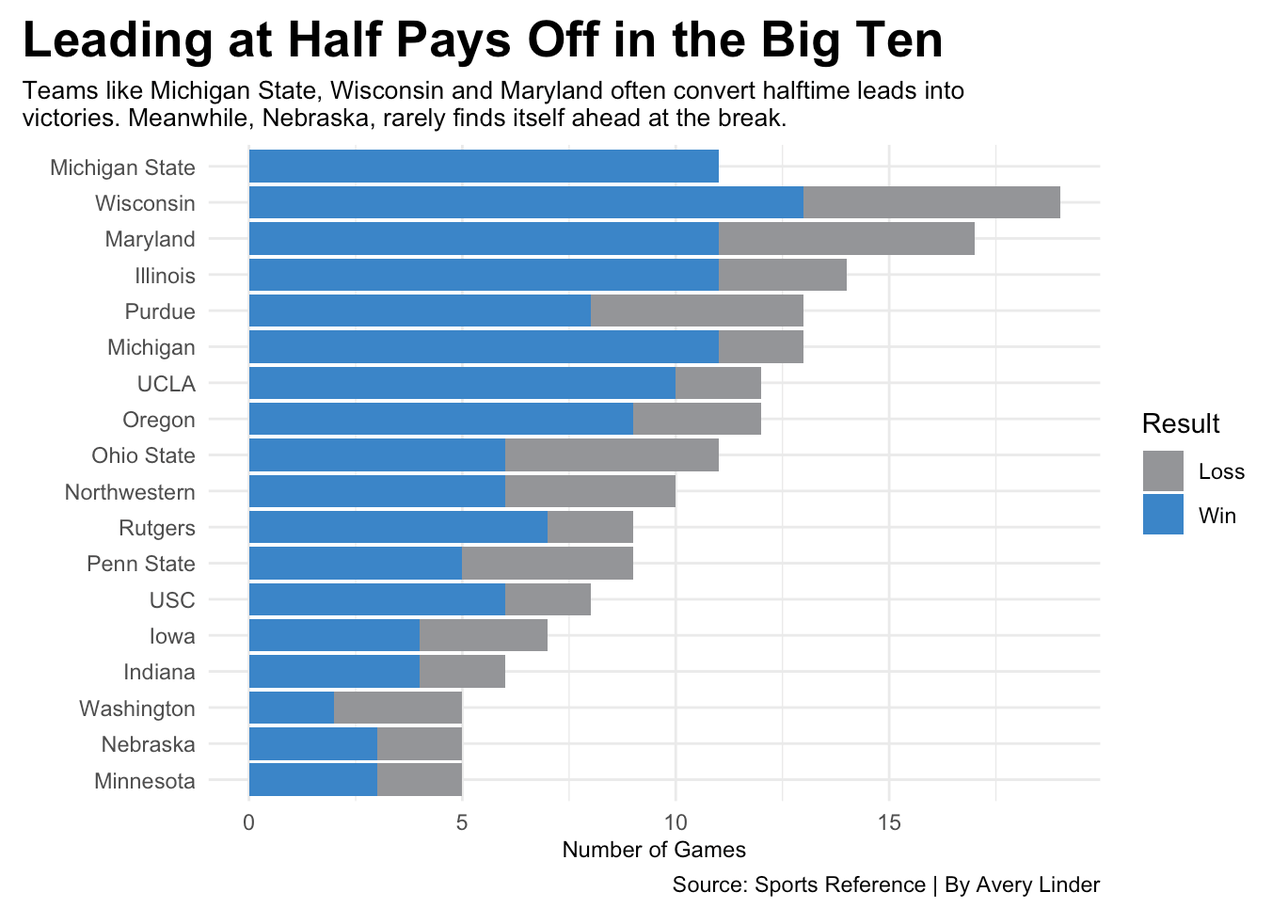
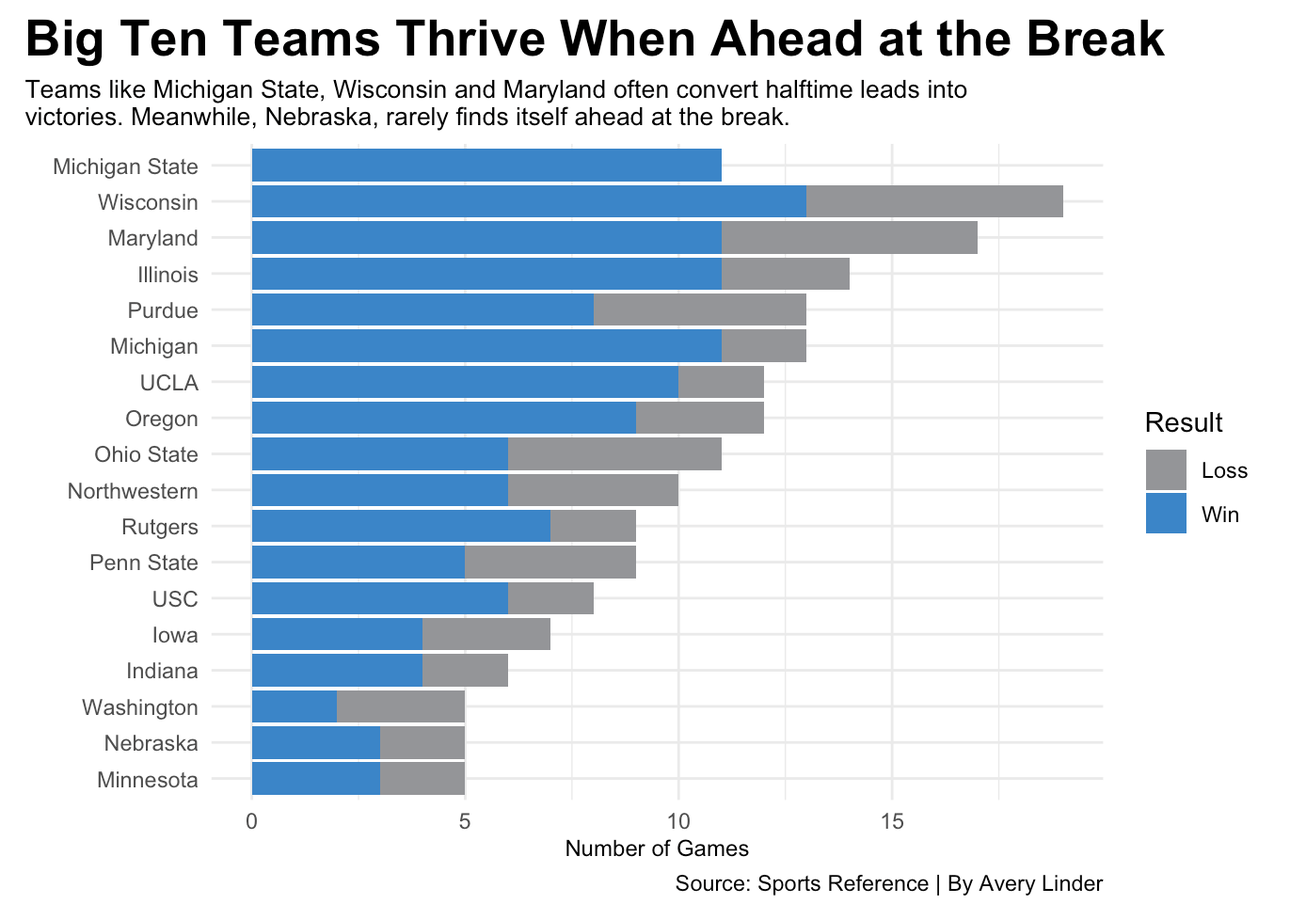
Final

diff --git a/posts/does-leading-at-halftime-predict-winning/index.html b/posts/does-leading-at-halftime-predict-winning/index.html
@@ -195,37 +195,45 @@ pre > code.sourceCode > span > a:first-child::before { text-decoration: underlin
 
 
 
-<p>FILL IN WORDS HERE YAY!!</p>
+<p>People often claim that the first half of a basketball game is the most important. But is that actually true?</p>
+<p>In the Big Ten Men’s Basketball Conference, the early minutes can make or break a team’s night. The first half can set the tone for the final stretch, revealing which programs take early control and which teams spend their time digging themselves out of a hole.</p>
+<p>Understanding these patterns, helps highlights the critical role halftime performance plays in a team’s overall season outcome.</p>
+<p>Sports Reference data from the 2024–2025 season shows halftime and final scores for every game in the regular season, highlighting which teams turn early leads into victories and which struggle to keep up</p>
+<p>Patterns quickly appear, showing which programs hold their halftime advantage and which fall behind before the final buzzer.</p>
 <div class="cell">
 <details class="code-fold">
 <summary>Code</summary>
 <div class="code-copy-outer-scaffold"><div class="sourceCode cell-code" id="cb1"><pre class="sourceCode r code-with-copy"><code class="sourceCode r"><span id="cb1-1"><a href="#cb1-1" aria-hidden="true" tabindex="-1"></a><span class="fu">library</span>(tidyverse)</span>
-<span id="cb1-2"><a href="#cb1-2" aria-hidden="true" tabindex="-1"></a></span>
-<span id="cb1-3"><a href="#cb1-3" aria-hidden="true" tabindex="-1"></a>basketball <span class="ot">&lt;-</span> <span class="fu">read_csv</span>(<span class="st">"Project 1 Data - Sheet1.csv"</span>)</span>
+<span id="cb1-2"><a href="#cb1-2" aria-hidden="true" tabindex="-1"></a><span class="fu">library</span>(ggrepel)</span>
+<span id="cb1-3"><a href="#cb1-3" aria-hidden="true" tabindex="-1"></a><span class="fu">library</span>(ggbeeswarm)</span>
 <span id="cb1-4"><a href="#cb1-4" aria-hidden="true" tabindex="-1"></a></span>
-<span id="cb1-5"><a href="#cb1-5" aria-hidden="true" tabindex="-1"></a>big <span class="ot">&lt;-</span> basketball <span class="sc">|&gt;</span></span>
-<span id="cb1-6"><a href="#cb1-6" aria-hidden="true" tabindex="-1"></a>  <span class="fu">filter</span>(HalftimeStatus <span class="sc">==</span> <span class="st">"Winning"</span>) <span class="sc">|&gt;</span> </span>
-<span id="cb1-7"><a href="#cb1-7" aria-hidden="true" tabindex="-1"></a> <span class="fu">group_by</span>(Team, Result) <span class="sc">|&gt;</span></span>
-<span id="cb1-8"><a href="#cb1-8" aria-hidden="true" tabindex="-1"></a>  <span class="fu">summarise</span>(<span class="at">total_games =</span> <span class="fu">n</span>())</span>
-<span id="cb1-9"><a href="#cb1-9" aria-hidden="true" tabindex="-1"></a></span>
-<span id="cb1-10"><a href="#cb1-10" aria-hidden="true" tabindex="-1"></a><span class="fu">ggplot</span>() <span class="sc">+</span> </span>
-<span id="cb1-11"><a href="#cb1-11" aria-hidden="true" tabindex="-1"></a>  <span class="fu">geom_bar</span>(<span class="at">data=</span>big, <span class="fu">aes</span>(<span class="at">x=</span><span class="fu">reorder</span>(Team, total_games), <span class="at">weight =</span> total_games, <span class="at">fill=</span>Result)) <span class="sc">+</span> </span>
-<span id="cb1-12"><a href="#cb1-12" aria-hidden="true" tabindex="-1"></a>  <span class="fu">coord_flip</span>() <span class="sc">+</span></span>
-<span id="cb1-13"><a href="#cb1-13" aria-hidden="true" tabindex="-1"></a>  <span class="fu">labs</span>(</span>
-<span id="cb1-14"><a href="#cb1-14" aria-hidden="true" tabindex="-1"></a>    <span class="at">x=</span><span class="st">""</span>, </span>
-<span id="cb1-15"><a href="#cb1-15" aria-hidden="true" tabindex="-1"></a>    <span class="at">y=</span><span class="st">"Number of Games"</span>, </span>
-<span id="cb1-16"><a href="#cb1-16" aria-hidden="true" tabindex="-1"></a>    <span class="at">title=</span><span class="st">"Leading at Half Pays Off in the Big Ten"</span>, </span>
-<span id="cb1-17"><a href="#cb1-17" aria-hidden="true" tabindex="-1"></a>    <span class="at">subtitle=</span><span class="st">"Teams like Michigan State, Wisconsin and Maryland often convert halftime leads into </span><span class="sc">\n</span><span class="st">victories. Meanwhile, Nebraska, rarely finds itself ahead at the break."</span>, </span>
-<span id="cb1-18"><a href="#cb1-18" aria-hidden="true" tabindex="-1"></a>    <span class="at">caption=</span><span class="st">"Source: Sports Reference | By Avery Linder"</span></span>
-<span id="cb1-19"><a href="#cb1-19" aria-hidden="true" tabindex="-1"></a>    ) <span class="sc">+</span></span>
-<span id="cb1-20"><a href="#cb1-20" aria-hidden="true" tabindex="-1"></a>  <span class="fu">scale_fill_manual</span>(<span class="at">values=</span><span class="fu">c</span>(<span class="st">"#939598"</span>, <span class="st">"#0088CE"</span>)) <span class="sc">+</span> </span>
-<span id="cb1-21"><a href="#cb1-21" aria-hidden="true" tabindex="-1"></a>  <span class="fu">theme_minimal</span>() <span class="sc">+</span></span>
-<span id="cb1-22"><a href="#cb1-22" aria-hidden="true" tabindex="-1"></a>  <span class="fu">theme</span>(</span>
-<span id="cb1-23"><a href="#cb1-23" aria-hidden="true" tabindex="-1"></a>    <span class="at">plot.title.position =</span> <span class="st">"plot"</span>,</span>
-<span id="cb1-24"><a href="#cb1-24" aria-hidden="true" tabindex="-1"></a>    <span class="at">plot.title =</span> <span class="fu">element_text</span>(<span class="at">size =</span> <span class="dv">20</span>, <span class="at">face =</span> <span class="st">"bold"</span>),</span>
-<span id="cb1-25"><a href="#cb1-25" aria-hidden="true" tabindex="-1"></a>    <span class="at">plot.subtitle =</span> <span class="fu">element_text</span>(<span class="at">size=</span><span class="dv">10</span>),</span>
-<span id="cb1-26"><a href="#cb1-26" aria-hidden="true" tabindex="-1"></a>    <span class="at">axis.title =</span> <span class="fu">element_text</span>(<span class="at">size =</span> <span class="dv">9</span>), </span>
-<span id="cb1-27"><a href="#cb1-27" aria-hidden="true" tabindex="-1"></a>  )</span></code></pre></div><button title="Copy to Clipboard" class="code-copy-button"><i class="bi"></i></button></div>
+<span id="cb1-5"><a href="#cb1-5" aria-hidden="true" tabindex="-1"></a><span class="fu">set.seed</span>(<span class="dv">4</span>)</span>
+<span id="cb1-6"><a href="#cb1-6" aria-hidden="true" tabindex="-1"></a></span>
+<span id="cb1-7"><a href="#cb1-7" aria-hidden="true" tabindex="-1"></a>basketball <span class="ot">&lt;-</span> <span class="fu">read_csv</span>(<span class="st">"Project 1 Data - Sheet1.csv"</span>)</span>
+<span id="cb1-8"><a href="#cb1-8" aria-hidden="true" tabindex="-1"></a></span>
+<span id="cb1-9"><a href="#cb1-9" aria-hidden="true" tabindex="-1"></a>big <span class="ot">&lt;-</span> basketball <span class="sc">|&gt;</span></span>
+<span id="cb1-10"><a href="#cb1-10" aria-hidden="true" tabindex="-1"></a>  <span class="fu">filter</span>(HalftimeStatus <span class="sc">==</span> <span class="st">"Winning"</span>) <span class="sc">|&gt;</span> </span>
+<span id="cb1-11"><a href="#cb1-11" aria-hidden="true" tabindex="-1"></a> <span class="fu">group_by</span>(Team, Result) <span class="sc">|&gt;</span></span>
+<span id="cb1-12"><a href="#cb1-12" aria-hidden="true" tabindex="-1"></a>  <span class="fu">summarise</span>(<span class="at">total_games =</span> <span class="fu">n</span>())</span>
+<span id="cb1-13"><a href="#cb1-13" aria-hidden="true" tabindex="-1"></a></span>
+<span id="cb1-14"><a href="#cb1-14" aria-hidden="true" tabindex="-1"></a><span class="fu">ggplot</span>() <span class="sc">+</span> </span>
+<span id="cb1-15"><a href="#cb1-15" aria-hidden="true" tabindex="-1"></a>  <span class="fu">geom_bar</span>(<span class="at">data=</span>big, <span class="fu">aes</span>(<span class="at">x=</span><span class="fu">reorder</span>(Team, total_games), <span class="at">weight =</span> total_games, <span class="at">fill=</span>Result)) <span class="sc">+</span> </span>
+<span id="cb1-16"><a href="#cb1-16" aria-hidden="true" tabindex="-1"></a>  <span class="fu">coord_flip</span>() <span class="sc">+</span></span>
+<span id="cb1-17"><a href="#cb1-17" aria-hidden="true" tabindex="-1"></a>  <span class="fu">labs</span>(</span>
+<span id="cb1-18"><a href="#cb1-18" aria-hidden="true" tabindex="-1"></a>    <span class="at">x=</span><span class="st">""</span>, </span>
+<span id="cb1-19"><a href="#cb1-19" aria-hidden="true" tabindex="-1"></a>    <span class="at">y=</span><span class="st">"Number of Games"</span>, </span>
+<span id="cb1-20"><a href="#cb1-20" aria-hidden="true" tabindex="-1"></a>    <span class="at">title=</span><span class="st">"Big Ten Teams Thrive When Ahead at the Break"</span>, </span>
+<span id="cb1-21"><a href="#cb1-21" aria-hidden="true" tabindex="-1"></a>    <span class="at">subtitle=</span><span class="st">"Teams like Michigan State, Wisconsin and Maryland often convert halftime leads into </span><span class="sc">\n</span><span class="st">victories. Meanwhile, Nebraska, rarely finds itself ahead at the break."</span>, </span>
+<span id="cb1-22"><a href="#cb1-22" aria-hidden="true" tabindex="-1"></a>    <span class="at">caption=</span><span class="st">"Source: Sports Reference | By Avery Linder"</span></span>
+<span id="cb1-23"><a href="#cb1-23" aria-hidden="true" tabindex="-1"></a>    ) <span class="sc">+</span></span>
+<span id="cb1-24"><a href="#cb1-24" aria-hidden="true" tabindex="-1"></a>  <span class="fu">scale_fill_manual</span>(<span class="at">values=</span><span class="fu">c</span>(<span class="st">"#939598"</span>, <span class="st">"#0088CE"</span>)) <span class="sc">+</span> </span>
+<span id="cb1-25"><a href="#cb1-25" aria-hidden="true" tabindex="-1"></a>  <span class="fu">theme_minimal</span>() <span class="sc">+</span></span>
+<span id="cb1-26"><a href="#cb1-26" aria-hidden="true" tabindex="-1"></a>  <span class="fu">theme</span>(</span>
+<span id="cb1-27"><a href="#cb1-27" aria-hidden="true" tabindex="-1"></a>    <span class="at">plot.title.position =</span> <span class="st">"plot"</span>,</span>
+<span id="cb1-28"><a href="#cb1-28" aria-hidden="true" tabindex="-1"></a>    <span class="at">plot.title =</span> <span class="fu">element_text</span>(<span class="at">size =</span> <span class="dv">20</span>, <span class="at">face =</span> <span class="st">"bold"</span>),</span>
+<span id="cb1-29"><a href="#cb1-29" aria-hidden="true" tabindex="-1"></a>    <span class="at">plot.subtitle =</span> <span class="fu">element_text</span>(<span class="at">size=</span><span class="dv">10</span>),</span>
+<span id="cb1-30"><a href="#cb1-30" aria-hidden="true" tabindex="-1"></a>    <span class="at">axis.title =</span> <span class="fu">element_text</span>(<span class="at">size =</span> <span class="dv">9</span>), </span>
+<span id="cb1-31"><a href="#cb1-31" aria-hidden="true" tabindex="-1"></a>  )</span></code></pre></div><button title="Copy to Clipboard" class="code-copy-button"><i class="bi"></i></button></div>
 </details>
 <div class="cell-output-display">
 <div>
@@ -235,6 +243,111 @@ pre > code.sourceCode > span > a:first-child::before { text-decoration: underlin
 </div>
 </div>
 </div>
+<p>Some Big Ten teams consistently build on early advantages, while others rarely find themselves ahead at the break.</p>
+<p>Nebraska often falls behind early, making it difficult for them to turn games around, while programs like Michigan State and Wisconsin tend to carry early leads to the finish. Starting strong clearly gives momentum, while trailing at halftime can set the tone for the rest of the game.</p>
+<p>This pattern becomes more clear when looking at how often teams hold a halftime lead compared to how frequently they win.</p>
+<div class="cell">
+<details class="code-fold">
+<summary>Code</summary>
+<div class="code-copy-outer-scaffold"><div class="sourceCode cell-code" id="cb2"><pre class="sourceCode r code-with-copy"><code class="sourceCode r"><span id="cb2-1"><a href="#cb2-1" aria-hidden="true" tabindex="-1"></a>basketball <span class="ot">&lt;-</span> <span class="fu">read_csv</span>(<span class="st">"Project 1 Data - Sheet1.csv"</span>)</span>
+<span id="cb2-2"><a href="#cb2-2" aria-hidden="true" tabindex="-1"></a></span>
+<span id="cb2-3"><a href="#cb2-3" aria-hidden="true" tabindex="-1"></a>teams <span class="ot">&lt;-</span> basketball <span class="sc">|&gt;</span> </span>
+<span id="cb2-4"><a href="#cb2-4" aria-hidden="true" tabindex="-1"></a>  <span class="fu">group_by</span>(Team) <span class="sc">|&gt;</span> </span>
+<span id="cb2-5"><a href="#cb2-5" aria-hidden="true" tabindex="-1"></a>  <span class="fu">summarize</span>(</span>
+<span id="cb2-6"><a href="#cb2-6" aria-hidden="true" tabindex="-1"></a>    <span class="at">GamesPlayed =</span> <span class="fu">n</span>(),</span>
+<span id="cb2-7"><a href="#cb2-7" aria-hidden="true" tabindex="-1"></a>    <span class="at">HalftimeLeadPct =</span> <span class="fu">mean</span>(HalftimeStatus <span class="sc">==</span> <span class="st">"Winning"</span>),</span>
+<span id="cb2-8"><a href="#cb2-8" aria-hidden="true" tabindex="-1"></a>    <span class="at">WinPct =</span> <span class="fu">mean</span>(Result <span class="sc">==</span> <span class="st">"Win"</span>) </span>
+<span id="cb2-9"><a href="#cb2-9" aria-hidden="true" tabindex="-1"></a>  )</span>
+<span id="cb2-10"><a href="#cb2-10" aria-hidden="true" tabindex="-1"></a></span>
+<span id="cb2-11"><a href="#cb2-11" aria-hidden="true" tabindex="-1"></a>nebraska <span class="ot">&lt;-</span> teams <span class="sc">|&gt;</span> <span class="fu">filter</span>(Team <span class="sc">==</span> <span class="st">"Nebraska"</span>)</span>
+<span id="cb2-12"><a href="#cb2-12" aria-hidden="true" tabindex="-1"></a></span>
+<span id="cb2-13"><a href="#cb2-13" aria-hidden="true" tabindex="-1"></a>teamavg <span class="ot">&lt;-</span> teams <span class="sc">|&gt;</span> </span>
+<span id="cb2-14"><a href="#cb2-14" aria-hidden="true" tabindex="-1"></a>  <span class="fu">summarize</span>(</span>
+<span id="cb2-15"><a href="#cb2-15" aria-hidden="true" tabindex="-1"></a>    <span class="at">avg_HalftimeLeadPct =</span> <span class="fu">mean</span>(HalftimeLeadPct),</span>
+<span id="cb2-16"><a href="#cb2-16" aria-hidden="true" tabindex="-1"></a>    <span class="at">avg_WinPct =</span> <span class="fu">mean</span>(WinPct)</span>
+<span id="cb2-17"><a href="#cb2-17" aria-hidden="true" tabindex="-1"></a>  )</span>
+<span id="cb2-18"><a href="#cb2-18" aria-hidden="true" tabindex="-1"></a></span>
+<span id="cb2-19"><a href="#cb2-19" aria-hidden="true" tabindex="-1"></a>ms <span class="ot">&lt;-</span> teams <span class="sc">|&gt;</span> </span>
+<span id="cb2-20"><a href="#cb2-20" aria-hidden="true" tabindex="-1"></a>  <span class="fu">filter</span>(WinPct <span class="sc">&gt;</span> .<span class="dv">8</span>)</span>
+<span id="cb2-21"><a href="#cb2-21" aria-hidden="true" tabindex="-1"></a></span>
+<span id="cb2-22"><a href="#cb2-22" aria-hidden="true" tabindex="-1"></a>half <span class="ot">&lt;-</span> teams <span class="sc">|&gt;</span> </span>
+<span id="cb2-23"><a href="#cb2-23" aria-hidden="true" tabindex="-1"></a>  <span class="fu">filter</span>(HalftimeLeadPct <span class="sc">&gt;</span> .<span class="dv">79</span>)</span>
+<span id="cb2-24"><a href="#cb2-24" aria-hidden="true" tabindex="-1"></a></span>
+<span id="cb2-25"><a href="#cb2-25" aria-hidden="true" tabindex="-1"></a><span class="fu">ggplot</span>() <span class="sc">+</span> </span>
+<span id="cb2-26"><a href="#cb2-26" aria-hidden="true" tabindex="-1"></a>  <span class="fu">geom_point</span>(<span class="at">data =</span> teams, <span class="fu">aes</span>(<span class="at">x =</span> HalftimeLeadPct, <span class="at">y =</span> WinPct), <span class="at">color =</span> <span class="st">"darkgrey"</span>, <span class="at">size =</span> <span class="dv">3</span>) <span class="sc">+</span></span>
+<span id="cb2-27"><a href="#cb2-27" aria-hidden="true" tabindex="-1"></a>  <span class="fu">geom_point</span>(<span class="at">data =</span> nebraska, <span class="fu">aes</span>(<span class="at">x =</span> HalftimeLeadPct, <span class="at">y =</span> WinPct), <span class="at">color =</span> <span class="st">"red"</span>, <span class="at">size =</span> <span class="dv">3</span>) <span class="sc">+</span></span>
+<span id="cb2-28"><a href="#cb2-28" aria-hidden="true" tabindex="-1"></a>  <span class="fu">geom_text_repel</span>(<span class="at">data =</span> nebraska, <span class="fu">aes</span>(<span class="at">x =</span> HalftimeLeadPct, <span class="at">y =</span> WinPct, <span class="at">label =</span> Team), <span class="at">size =</span> <span class="dv">4</span>) <span class="sc">+</span></span>
+<span id="cb2-29"><a href="#cb2-29" aria-hidden="true" tabindex="-1"></a>  <span class="fu">geom_point</span>(<span class="at">data =</span> ms, <span class="fu">aes</span>(<span class="at">x =</span> HalftimeLeadPct, <span class="at">y =</span> WinPct), <span class="at">color =</span> <span class="st">"darkgreen"</span>, <span class="at">size =</span> <span class="dv">3</span>) <span class="sc">+</span></span>
+<span id="cb2-30"><a href="#cb2-30" aria-hidden="true" tabindex="-1"></a>  <span class="fu">geom_text_repel</span>(<span class="at">data =</span> ms, <span class="fu">aes</span>(<span class="at">x =</span> HalftimeLeadPct, <span class="at">y =</span> WinPct, <span class="at">label =</span> Team), <span class="at">size =</span> <span class="dv">4</span>) <span class="sc">+</span></span>
+<span id="cb2-31"><a href="#cb2-31" aria-hidden="true" tabindex="-1"></a>  <span class="fu">geom_point</span>(<span class="at">data =</span> half, <span class="fu">aes</span>(<span class="at">x =</span> HalftimeLeadPct, <span class="at">y =</span> WinPct), <span class="at">color =</span> <span class="st">"darkred"</span>, <span class="at">size =</span> <span class="dv">3</span>) <span class="sc">+</span></span>
+<span id="cb2-32"><a href="#cb2-32" aria-hidden="true" tabindex="-1"></a>  <span class="fu">geom_text_repel</span>(<span class="at">data =</span> half, <span class="fu">aes</span>(<span class="at">x =</span> HalftimeLeadPct, <span class="at">y =</span> WinPct, <span class="at">label =</span> Team), <span class="at">size =</span> <span class="dv">4</span>) <span class="sc">+</span></span>
+<span id="cb2-33"><a href="#cb2-33" aria-hidden="true" tabindex="-1"></a>  <span class="fu">geom_smooth</span>(<span class="at">data=</span> teams, <span class="fu">aes</span>(<span class="at">x=</span>HalftimeLeadPct, <span class="at">y=</span>WinPct), <span class="at">method =</span> <span class="st">"lm"</span>, <span class="at">se=</span><span class="cn">FALSE</span>) <span class="sc">+</span></span>
+<span id="cb2-34"><a href="#cb2-34" aria-hidden="true" tabindex="-1"></a>    <span class="fu">labs</span>(</span>
+<span id="cb2-35"><a href="#cb2-35" aria-hidden="true" tabindex="-1"></a>    <span class="at">x=</span><span class="st">"Halftime Lead Percentage"</span>, </span>
+<span id="cb2-36"><a href="#cb2-36" aria-hidden="true" tabindex="-1"></a>    <span class="at">y=</span><span class="st">"Win Percentage"</span>, </span>
+<span id="cb2-37"><a href="#cb2-37" aria-hidden="true" tabindex="-1"></a>    <span class="at">title=</span><span class="st">"Higher Halftime Lead Rates Align with Higher Win Rates"</span>, </span>
+<span id="cb2-38"><a href="#cb2-38" aria-hidden="true" tabindex="-1"></a>    <span class="at">subtitle=</span><span class="st">"A higher halftime lead percentage translates to a higher win percentage. Nebraska sits near the bottom of the pack."</span>, </span>
+<span id="cb2-39"><a href="#cb2-39" aria-hidden="true" tabindex="-1"></a>    <span class="at">caption=</span><span class="st">"Source: Sports Reference | By Avery Linder"</span></span>
+<span id="cb2-40"><a href="#cb2-40" aria-hidden="true" tabindex="-1"></a>    ) <span class="sc">+</span></span>
+<span id="cb2-41"><a href="#cb2-41" aria-hidden="true" tabindex="-1"></a>  <span class="fu">theme_minimal</span>() <span class="sc">+</span></span>
+<span id="cb2-42"><a href="#cb2-42" aria-hidden="true" tabindex="-1"></a>  <span class="fu">theme</span>(</span>
+<span id="cb2-43"><a href="#cb2-43" aria-hidden="true" tabindex="-1"></a>    <span class="at">plot.title.position =</span> <span class="st">"plot"</span>,</span>
+<span id="cb2-44"><a href="#cb2-44" aria-hidden="true" tabindex="-1"></a>    <span class="at">plot.title =</span> <span class="fu">element_text</span>(<span class="at">size =</span> <span class="dv">19</span>, <span class="at">face =</span> <span class="st">"bold"</span>),</span>
+<span id="cb2-45"><a href="#cb2-45" aria-hidden="true" tabindex="-1"></a>    <span class="at">plot.subtitle =</span> <span class="fu">element_text</span>(<span class="at">size=</span><span class="dv">10</span>),</span>
+<span id="cb2-46"><a href="#cb2-46" aria-hidden="true" tabindex="-1"></a>    <span class="at">axis.title =</span> <span class="fu">element_text</span>(<span class="at">size =</span> <span class="dv">9</span>), </span>
+<span id="cb2-47"><a href="#cb2-47" aria-hidden="true" tabindex="-1"></a>  )</span></code></pre></div><button title="Copy to Clipboard" class="code-copy-button"><i class="bi"></i></button></div>
+</details>
+<div class="cell-output-display">
+<div>
+<figure class="figure">
+<p><img src="index_files/figure-html/unnamed-chunk-2-1.png" class="img-fluid figure-img" width="672"></p>
+</figure>
+</div>
+</div>
+</div>
+<p>The relationship is clear: teams that frequently hold a halftime lead tend to finish games successfully, while those that are rarely ahead tend to struggle. Nebraska’s position near the bottom of the Big Ten, shows how early deficits are a challenge to come back from, while teams that create momentum early, are more likely to secure a victory.</p>
+<p>While the season-long percentages show which teams usually convert halftime leads into wins, breaking it down into individual games shows even more detail.</p>
+<p>Small halftime point differentials can swing either way at the end of the game, but larger leads or deficits are much harder to change in the second half.</p>
+<p>Nebraska’s struggles are visible with majority of their games showing early deficits leading to losses, with a few exceptions of a comeback.</p>
+<div class="cell">
+<details class="code-fold">
+<summary>Code</summary>
+<div class="code-copy-outer-scaffold"><div class="sourceCode cell-code" id="cb3"><pre class="sourceCode r code-with-copy"><code class="sourceCode r"><span id="cb3-1"><a href="#cb3-1" aria-hidden="true" tabindex="-1"></a>basketball <span class="ot">&lt;-</span> <span class="fu">read_csv</span>(<span class="st">"Project 1 Data - Sheet1.csv"</span>)</span>
+<span id="cb3-2"><a href="#cb3-2" aria-hidden="true" tabindex="-1"></a></span>
+<span id="cb3-3"><a href="#cb3-3" aria-hidden="true" tabindex="-1"></a>nu <span class="ot">&lt;-</span> basketball <span class="sc">|&gt;</span> <span class="fu">filter</span>(Team <span class="sc">==</span> <span class="st">"Nebraska"</span>)</span>
+<span id="cb3-4"><a href="#cb3-4" aria-hidden="true" tabindex="-1"></a></span>
+<span id="cb3-5"><a href="#cb3-5" aria-hidden="true" tabindex="-1"></a><span class="fu">ggplot</span>() <span class="sc">+</span></span>
+<span id="cb3-6"><a href="#cb3-6" aria-hidden="true" tabindex="-1"></a>  <span class="fu">geom_beeswarm</span>(<span class="at">data =</span> basketball, <span class="fu">aes</span>(<span class="at">x =</span> HTPointDiff, <span class="at">y =</span> FinalPointDiff), <span class="at">color =</span> <span class="st">"lightgrey"</span>) <span class="sc">+</span></span>
+<span id="cb3-7"><a href="#cb3-7" aria-hidden="true" tabindex="-1"></a>  <span class="fu">geom_hline</span>(<span class="at">yintercept =</span> <span class="dv">0</span>, <span class="at">color =</span> <span class="st">"blue"</span>, <span class="at">size =</span> <span class="fl">0.5</span>) <span class="sc">+</span></span>
+<span id="cb3-8"><a href="#cb3-8" aria-hidden="true" tabindex="-1"></a>  <span class="fu">geom_vline</span>(<span class="at">xintercept =</span> <span class="dv">0</span>, <span class="at">color =</span> <span class="st">"blue"</span>, <span class="at">size =</span> <span class="fl">0.5</span>) <span class="sc">+</span></span>
+<span id="cb3-9"><a href="#cb3-9" aria-hidden="true" tabindex="-1"></a>  <span class="fu">geom_beeswarm</span>(<span class="at">data =</span> nu, <span class="fu">aes</span>(<span class="at">x =</span> HTPointDiff, <span class="at">y =</span> FinalPointDiff), <span class="at">color =</span> <span class="st">"red"</span>) <span class="sc">+</span></span>
+<span id="cb3-10"><a href="#cb3-10" aria-hidden="true" tabindex="-1"></a>  <span class="fu">theme_minimal</span>() <span class="sc">+</span></span>
+<span id="cb3-11"><a href="#cb3-11" aria-hidden="true" tabindex="-1"></a>   <span class="fu">labs</span>(</span>
+<span id="cb3-12"><a href="#cb3-12" aria-hidden="true" tabindex="-1"></a>    <span class="at">x=</span><span class="st">"Halftime Point Differential"</span>, </span>
+<span id="cb3-13"><a href="#cb3-13" aria-hidden="true" tabindex="-1"></a>    <span class="at">y=</span><span class="st">"Final Point Differential"</span>, </span>
+<span id="cb3-14"><a href="#cb3-14" aria-hidden="true" tabindex="-1"></a>    <span class="at">title=</span><span class="st">"Nebraska’s Early Game Deficits Predict Final Losses"</span>, </span>
+<span id="cb3-15"><a href="#cb3-15" aria-hidden="true" tabindex="-1"></a>    <span class="at">subtitle=</span><span class="st">"Half-time deficits often set the tone for Nebraska’s final outcomes with few games turned around in the second half."</span>, </span>
+<span id="cb3-16"><a href="#cb3-16" aria-hidden="true" tabindex="-1"></a>    <span class="at">caption=</span><span class="st">"Source: Sports Reference | By Avery Linder"</span></span>
+<span id="cb3-17"><a href="#cb3-17" aria-hidden="true" tabindex="-1"></a>    ) <span class="sc">+</span></span>
+<span id="cb3-18"><a href="#cb3-18" aria-hidden="true" tabindex="-1"></a>  <span class="fu">theme_minimal</span>() <span class="sc">+</span></span>
+<span id="cb3-19"><a href="#cb3-19" aria-hidden="true" tabindex="-1"></a>  <span class="fu">theme</span>(</span>
+<span id="cb3-20"><a href="#cb3-20" aria-hidden="true" tabindex="-1"></a>    <span class="at">plot.title.position =</span> <span class="st">"plot"</span>,</span>
+<span id="cb3-21"><a href="#cb3-21" aria-hidden="true" tabindex="-1"></a>    <span class="at">plot.title =</span> <span class="fu">element_text</span>(<span class="at">size =</span> <span class="dv">20</span>, <span class="at">face =</span> <span class="st">"bold"</span>),</span>
+<span id="cb3-22"><a href="#cb3-22" aria-hidden="true" tabindex="-1"></a>    <span class="at">plot.subtitle =</span> <span class="fu">element_text</span>(<span class="at">size=</span><span class="dv">10</span>),</span>
+<span id="cb3-23"><a href="#cb3-23" aria-hidden="true" tabindex="-1"></a>    <span class="at">axis.title =</span> <span class="fu">element_text</span>(<span class="at">size =</span> <span class="dv">9</span>), </span>
+<span id="cb3-24"><a href="#cb3-24" aria-hidden="true" tabindex="-1"></a>  )</span></code></pre></div><button title="Copy to Clipboard" class="code-copy-button"><i class="bi"></i></button></div>
+</details>
+<div class="cell-output-display">
+<div>
+<figure class="figure">
+<p><img src="index_files/figure-html/unnamed-chunk-3-1.png" class="img-fluid figure-img" width="672"></p>
+</figure>
+</div>
+</div>
+</div>
+<p>Overall, the data shows that the first half of a Big Ten Men’s College Basketball game matters more than just setting the tone. It often predicts the final outcome. Teams that start the game strong have a better chance at winning, while an early deficit leads to a battle for the rest of the game.</p>
+<p>For Nebraska the data shows both the challenges of falling behind early and some rare times of their fight back to win in the end.</p>
+<p>Will this season be any different for the Cornhuskers?</p>
 
 
 

diff --git a/index.html b/index.html
@@ -209,7 +209,7 @@ window.Quarto = {
 
 <div class="quarto-listing quarto-listing-container-default" id="listing-listing">
 <div class="list quarto-listing-default">
-<div class="quarto-post image-right" data-index="0" data-categories="bmNhYSUyQ2JpZ3RlbiUyQ2Jhc2tldGJhbGw=" data-listing-date-sort="1763359200000" data-listing-file-modified-sort="1763135878104" data-listing-date-modified-sort="NaN" data-listing-reading-time-sort="1" data-listing-word-count-sort="157">
+<div class="quarto-post image-right" data-index="0" data-categories="bmNhYSUyQ2JpZ3RlbiUyQ2Jhc2tldGJhbGw=" data-listing-date-sort="1763359200000" data-listing-file-modified-sort="1763145954895" data-listing-date-modified-sort="NaN" data-listing-reading-time-sort="6" data-listing-word-count-sort="1086">
 <div class="thumbnail"><a href="./posts/does-leading-at-halftime-predict-winning/index.html" class="no-external">
 
 <img loading="lazy" src="./posts/does-leading-at-halftime-predict-winning/image.png" class="thumbnail-image">
@@ -229,7 +229,7 @@ window.Quarto = {
 
 </div>
 <div class="delink listing-description"><a href="./posts/does-leading-at-halftime-predict-winning/index.html" class="no-external">
-FILL IN WORDS HERE YAY!!
+People often claim that the first half of a basketball game is the most important. But is that actually true?
 </a></div>
 </div>
 <div class="metadata">
